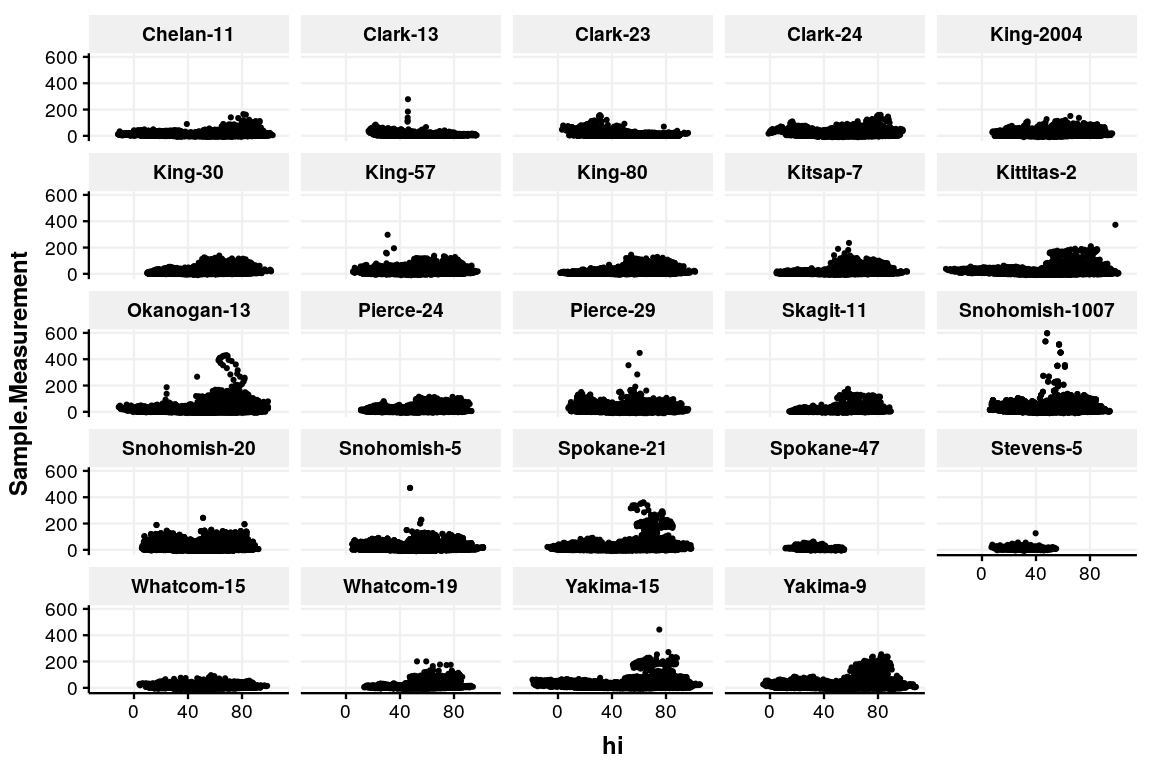
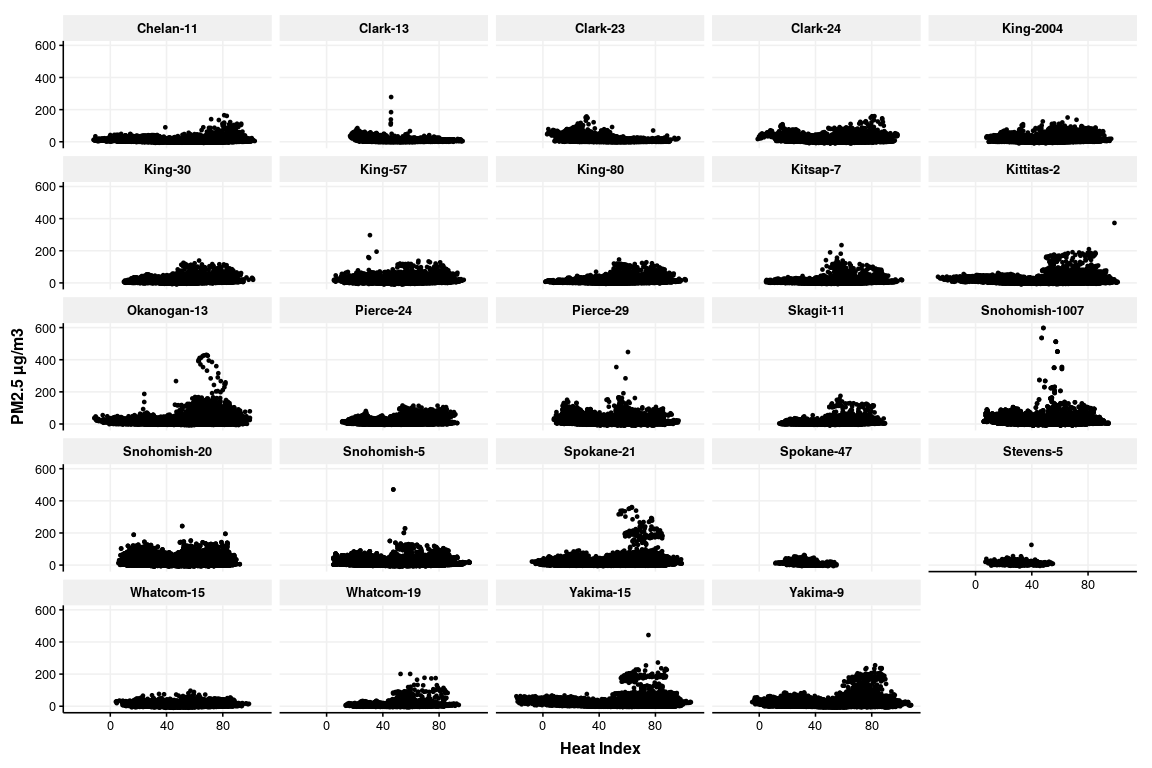
Fixed ggplot code to improve readability

diff --git a/WA-PM-Heat-Episodes.md b/WA-PM-Heat-Episodes.md
@@ -1,4 +1,4 @@
-Washington PM and Heat Episides, 2010-2018
+Washington PM2.5 and Heat Episides, 2010-2018
 ================
 
 ## METHODS
@@ -30,7 +30,7 @@ Washington PM and Heat Episides, 2010-2018
 ## RESULTS
 
 ``` r
-ggplot(awn.1h, aes(x=AIR_TEMP_F))            + geom_histogram() + theme_HEI()
+ggplot(awn.1h, aes(x=AIR_TEMP_F))            + geom_histogram() + theme_HEI(10) + xlab("Air Temperature (F)") + ylab("Count")
 ```
 
     ## Warning: `legend.margin` must be specified using `margin()`. For the old
@@ -41,7 +41,7 @@ ggplot(awn.1h, aes(x=AIR_TEMP_F))            + geom_histogram() + theme_HEI()
 ![](WA-PM-Heat-Episodes_files/figure-gfm/histograms.temp.rh.hi-1.png)<!-- -->
 
 ``` r
-ggplot(awn.1h, aes(x=`RELATIVE_HUMIDITY_%`)) + geom_histogram() + theme_HEI()
+ggplot(awn.1h, aes(x=`RELATIVE_HUMIDITY_%`)) + geom_histogram() + theme_HEI(10) + xlab("Relative Humidity (%)") + ylab("Count")
 ```
 
     ## Warning: `legend.margin` must be specified using `margin()`. For the old
@@ -52,7 +52,7 @@ ggplot(awn.1h, aes(x=`RELATIVE_HUMIDITY_%`)) + geom_histogram() + theme_HEI()
 ![](WA-PM-Heat-Episodes_files/figure-gfm/histograms.temp.rh.hi-2.png)<!-- -->
 
 ``` r
-ggplot(awn.1h, aes(x=hi))                    + geom_histogram() + theme_HEI()
+ggplot(awn.1h, aes(x=hi))                    + geom_histogram() + theme_HEI(10) + xlab("Heat Index") + ylab("Count")
 ```
 
     ## Warning: `legend.margin` must be specified using `margin()`. For the old
@@ -74,7 +74,7 @@ ggplot(awn.1h, aes(x=hi))                    + geom_histogram() + theme_HEI()
 ```
 
 ``` r
-ggplot(epa.awn.final.long, aes(x=datetime_PST, y=value, color=factor(variable))) + geom_line() + facet_wrap(facets = vars(Site)) + theme_HEI()
+ggplot(epa.awn.final.long, aes(x=datetime_PST, y=value, color=factor(variable))) + geom_line() + facet_wrap(facets = vars(Site)) + theme_HEI(12) + xlab("Year") + ylab("")
 ```
 
     ## Warning: `legend.margin` must be specified using `margin()`. For the old
@@ -83,7 +83,7 @@ ggplot(epa.awn.final.long, aes(x=datetime_PST, y=value, color=factor(variable)))
 ![](WA-PM-Heat-Episodes_files/figure-gfm/time.series-1.png)<!-- -->
 
 ``` r
-ggplot(epa.awn.final.wide, aes(x=hi, y=Sample.Measurement)) + geom_point() + facet_wrap(facets = vars(Site)) + theme_HEI()
+ggplot(epa.awn.final.wide, aes(x=hi, y=Sample.Measurement)) + geom_point(size=1) + facet_wrap(facets = vars(Site)) + theme_HEI(12) + xlab("Heat Index") + ylab("PM2.5 µg/m3")
 ```
 
     ## Warning: `legend.margin` must be specified using `margin()`. For the old
